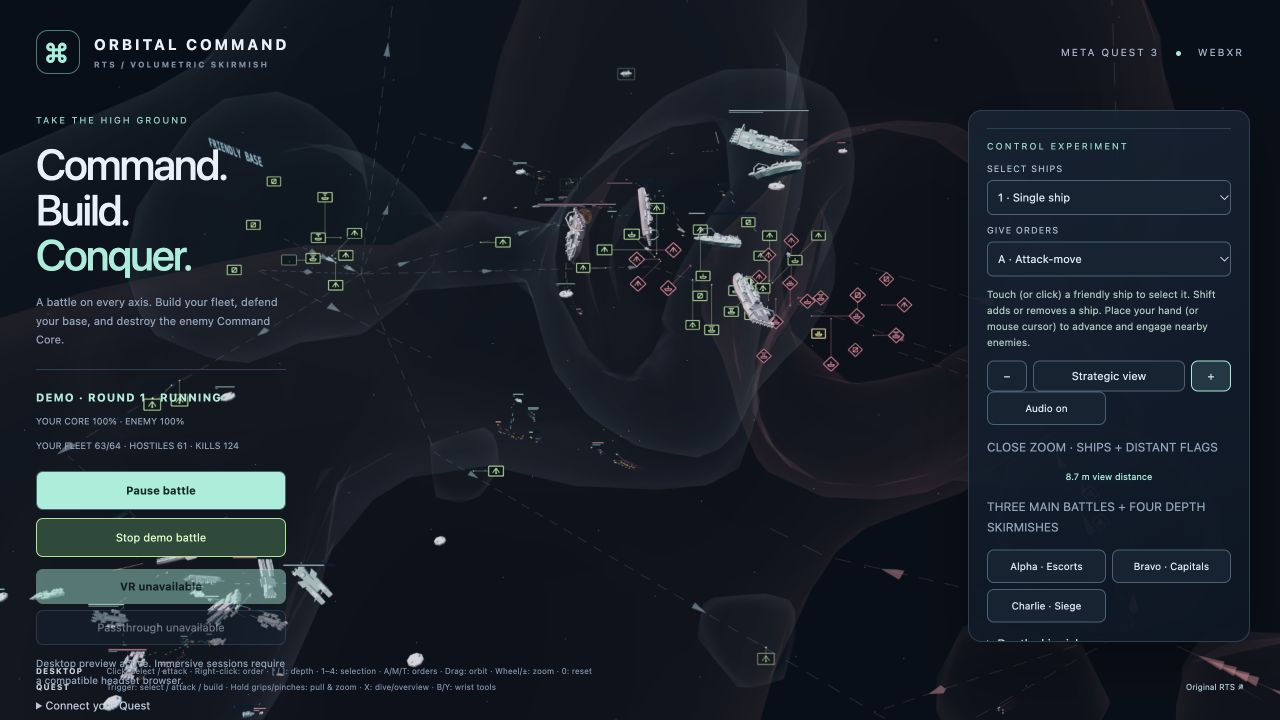
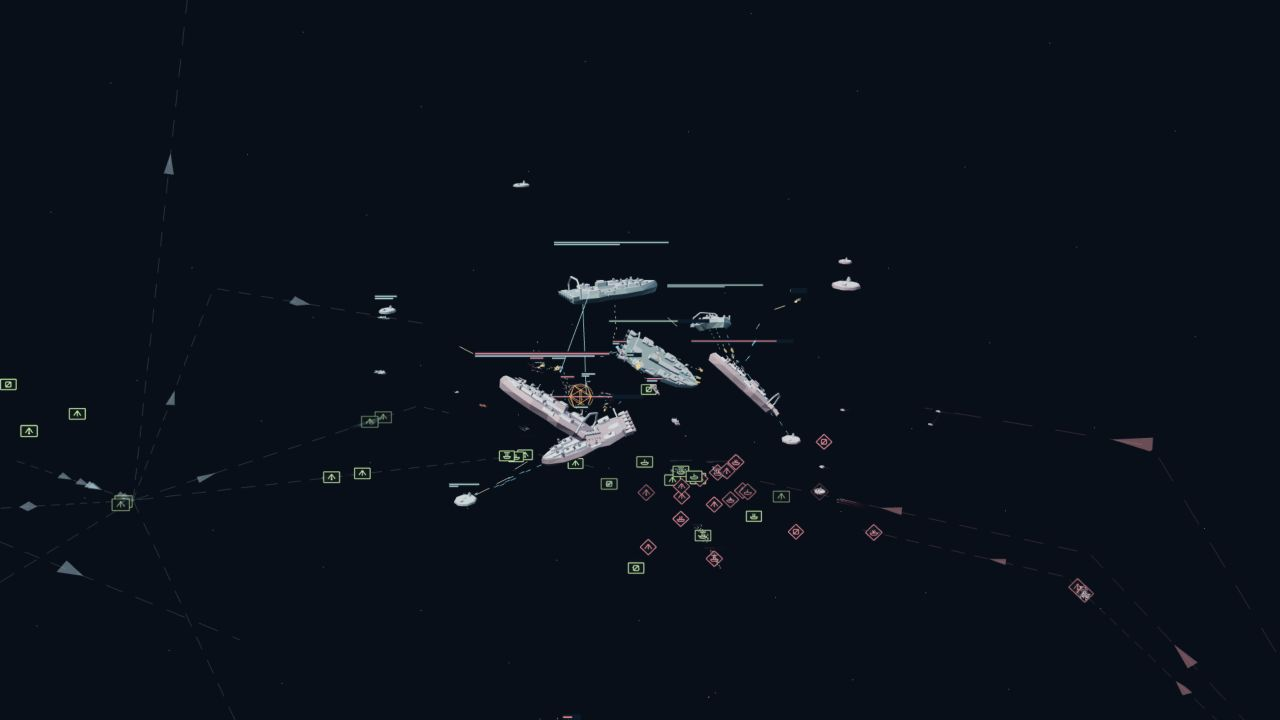
Capture project photos without menus or interface overlays

diff --git a/apps/client/src/quest.ts b/apps/client/src/quest.ts
@@ -14,6 +14,10 @@ import { QuestSupplyView } from "./quest-supply-view";
 import { directContact, inBattleVolume } from "./quest-direct-input";
 import "./quest.css";
 
+// Opt-in capture view: keep the actual simulation, without desktop or spatial menus.
+const photoMode = new URLSearchParams(location.search).get("photo") === "1";
+document.body.classList.toggle("photo-mode", photoMode);
+
 const element = <T extends HTMLElement>(id: string): T => document.getElementById(id) as T;
 const canvas = element<HTMLCanvasElement>("space");
 const renderer = new THREE.WebGLRenderer({ canvas, antialias: true, alpha: true, powerPreference: "high-performance" });
@@ -779,6 +783,13 @@ async function checkXR(): Promise<void> {
 }
 void checkXR();
 
+if (photoMode) {
+  toggleDemo();
+  selected.clear();
+  setBattleView(true, new THREE.Vector3().copy(DEMO_COMBAT_SITES[1]!.center));
+  zoomBy(0.38);
+}
+
 let previousTime = 0, panelTime = 0, frameCount = 0, fpsTime = 0;
 
 renderer.setAnimationLoop((time, frame) => {
@@ -826,14 +837,15 @@ renderer.setAnimationLoop((time, frame) => {
   if (!renderer.xr.isPresenting) panel.visible = !demo;
   encountersView.update(demo ? battle : null, renderer.xr.isPresenting ? renderer.xr.getCamera() : camera, dt);
   battleView.update(battle, selected, renderer.xr.isPresenting ? renderer.xr.getCamera() : camera, dt, encountersView.opacity);
-  if (time - panelTime > 200) { updateHud(); drawPanel(); drawHud(); panelTime = time; }
+  if (!photoMode && time - panelTime > 200) { updateHud(); drawPanel(); drawHud(); panelTime = time; }
   frameCount++;
   if (time - fpsTime > 1000) { element("fps").textContent = `${Math.round(frameCount * 1000 / (time - fpsTime))} FPS`; frameCount = 0; fpsTime = time; }
+  if (photoMode) panel.visible = hud.visible = uiCursor.visible = marker.visible = selectionPreview.visible = false;
   renderer.render(scene, camera);
 });
 window.addEventListener("resize", () => {
   camera.aspect = innerWidth / innerHeight; camera.updateProjectionMatrix();
-  if (!renderer.xr.isPresenting) { renderer.setSize(innerWidth, innerHeight); desktopCamera(!!demo); }
+  if (!renderer.xr.isPresenting) { renderer.setSize(innerWidth, innerHeight); if (!photoMode) desktopCamera(!!demo); }
 });
 
 document.addEventListener("visibilitychange", () => {

diff --git a/apps/client/src/quest.css b/apps/client/src/quest.css
@@ -10,3 +10,6 @@ main{top:16%;width:250px}h1{font-size:43px;letter-spacing:-2px;margin:16px 0}mai
 .control-lab{border-block:1px solid #294153;padding:12px 0;margin-bottom:12px}.control-lab .eyebrow{display:block;margin-bottom:12px}.control-lab label{display:block;margin-top:10px}.control-lab select{width:100%;margin-top:6px;background:#132332;color:#d9e9f7;border:1px solid #426477;border-radius:6px;padding:9px 6px;font:inherit;font-size:11px}.control-lab select:focus-visible{outline:2px solid #adffe7;outline-offset:2px}#control-hint{font-size:10px;line-height:1.6;color:#a5c8c0}.zoom-controls{display:grid;grid-template-columns:40px 1fr 40px;gap:6px}.zoom-controls button{padding:8px}#zoom-value{font-size:9px;text-align:center;margin:6px 0 0;color:#95efdb}
 
 #demo{width:100%;margin-top:8px;border-color:#82b9da;color:#c5eeff}#demo[aria-pressed=true]{background:#264a3a;border-color:#a8e68e;color:#d8ffc5}
+
+/* Clean, real-time capture; normal gameplay keeps all of its controls. */
+body.photo-mode header,body.photo-mode main,body.photo-mode aside,body.photo-mode footer{display:none}

diff --git a/docs/quest-guide.md b/docs/quest-guide.md
@@ -17,6 +17,13 @@ Open **http://localhost:5174/quest.html** for the 3D skirmish. The same skirmish
 
 `pnpm dev` uses Quest mode with automatic page reloads disabled. Source edits must not reload an active WebXR session: Quest Browser can otherwise leave a frozen image in the headset. Leave VR/passthrough, refresh the browser page to load changes, then enter again. Desktop development with `pnpm dev:client` keeps automatic updates enabled.
 
+## Clean screenshots
+
+For a clean desktop screenshot, open `http://localhost:5174/quest.html?photo=1`.
+This starts the endless demo, frames a battle, and hides the page controls,
+spatial menus and interaction cursors. Drag to orbit, wheel to zoom, and use
+Space to pause for a capture. Remove `?photo=1` to restore the normal interface.
+
 ## Connect Meta Quest 3
 
 ### USB — recommended for local development
